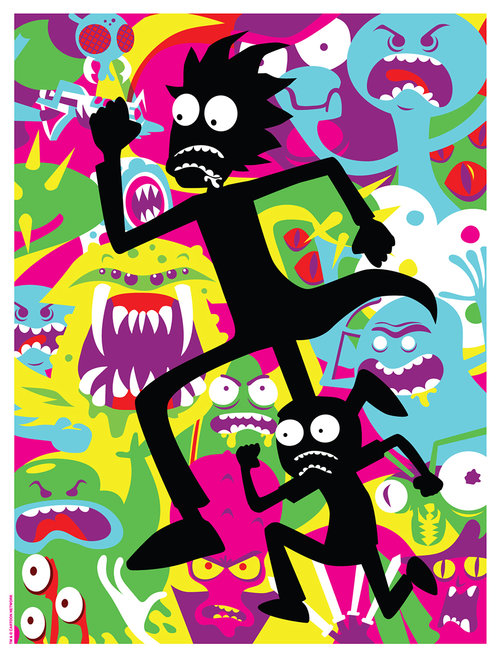
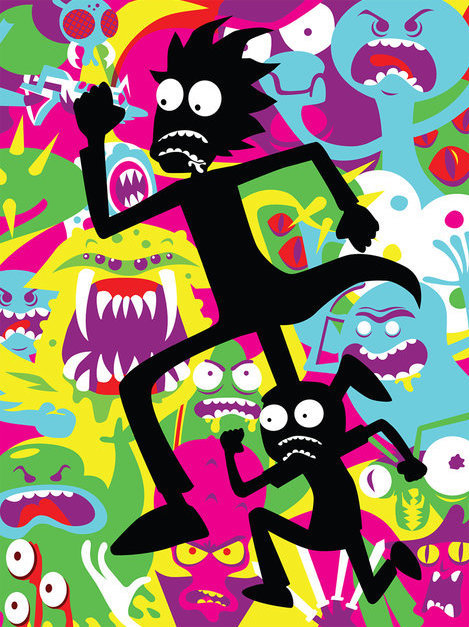
Cards are flipping // resized imgs to fit cards

diff --git a/js/myapp.js b/js/myapp.js
@@ -4,12 +4,14 @@ $(document).ready(function () {
 
 /* Variables  */
 var MemoryGame = {};
-MemoryGame.images = ["pic0.jpg", "pic1.jpg", "pic2.jpg", "pic3.jpg", "pic4.jpg", "pic5.jpg", "pic6.jpg", "pic7.jpg", "pic8.jpg", "pic9.jpg",];    // if you want to add an image, add it here (keep same format, and try to keep ratio as well) 
+MemoryGame.images = ["pic0.jpg", "pic1.jpg", "pic2.jpg", "pic3.jpg", "pic4.jpg", "pic5.jpg", "pic6.jpg", "pic7.jpg", "pic8.jpg", ];    // if you want to add an image, add it here (keep same format, and try to keep ratio as well) 
 MemoryGame.selectedImages = [];
-MemoryGame.backCard = "";
+MemoryGame.selectedFirstCard = -1;
+MemoryGame.selectedSecondCard = -1;
 MemoryGame.maxCards = 6;                                                     // change here for difficulty 
 
 MemoryGame.pickRandomCards = function () {
+
     var arr1 = [];      // arr1 et arr2 are test for random, make sure we get a number only once 
     var arr2 = [];
     while (arr1.length < (MemoryGame.maxCards * 2)) {                        // pick random num and store it twice. 
@@ -30,36 +32,57 @@ MemoryGame.pickRandomCards = function () {
 }
 
 MemoryGame.generateBoard = function () {
+
     var cardsByRow = 4;                 // change here when dealing with difficulty
     var count = 0;                      // give proper id to each generated card
     for (var i = 1; i <= 3; i++) {
-        $("#board").append("<div class='row justify-content-center'>");
+        $(`#board`).append(`<div class='row justify-content-center'>`);
         for (var j = 1; j <= cardsByRow; j++) {
-            $(`.row:nth-child(${i})`).append("<div class='col-xs-5 card'>");
+            $(`.row:nth-child(${i})`).append(`<div class='col-xs-5 card'>`);
             count++;
         }
     }
 }
 
+MemoryGame.flip = function(that, index) {
+
+    that.target.style.backgroundImage = `url('./img/${MemoryGame.selectedImages[index]}')`;
+
+}
+
 MemoryGame.gameplay = function () {
 
-    $(".card").on("click", function () {
-        var index = $(`.card`).index(this);         // get selected card's index (0 -> total cols)
-        $(this).addClass(`selected`);
-        console.log(index);                 // To remove 
-    });
-
-    $(".card").on("mouseover", function () {
+    $(`.card`).on(`mouseover`, function () {
         $(this).addClass(`hovered`);
-        $(".hovered").on("mouseout", function () {
+        $(`.hovered`).on(`mouseout`, function () {
             $(this).removeClass(`hovered`);
         });
+    });
+    $(`.card`).on(`click`, function (e) {
+        var index = $(`.card`).index(this);         // get selected card's index (0 -> total cols)
+        $(this).addClass(`selected`);
+        console.log($('.selected').length);
+        var that = e;
+        MemoryGame.flip(that, index);
+        if ($('.selected').length === 1) {
+            MemoryGame.selectedFirstCard = MemoryGame.selectedImages[index];
+            console.log(MemoryGame.selectedFirstCard);                  //To delete
+        }
+        if ($('.selected').length === 2) {
+            MemoryGame.selectedSecondCard = MemoryGame.selectedImages[index];
+            console.log(MemoryGame.selectedSecondCard);                  //To delete
+
+            $(`.selected`).removeClass(`selected`);     //  mettre dans la derniere fonction
+            // MemoryGame.selectedFirstCard = -1;
+            // MemoryGame.selectedSecondCard = -1;
+        }
     });
 }
 
 
 
 MemoryGame.start = function () {
+
     MemoryGame.generateBoard();
     MemoryGame.pickRandomCards();
     MemoryGame.gameplay();

diff --git a/css/myapp.css b/css/myapp.css
@@ -16,7 +16,9 @@ body {
     height: 164px;
     margin: 0.5vw;
     background-image: url(../img/cardBack.jpg);
-    background-size: contain;
+    background-size: cover;
+    background-repeat: no-repeat;
+    background-position: center;
     border-radius: 15px;
     overflow: hidden;
     border: 2px solid white;
@@ -31,7 +33,7 @@ body {
 .selected {
     border: 3px solid firebrick;
     box-sizing: border-box;
-
+    pointer-events: none;
 }
 
 /* @media (max-width : 200px) {

diff --git a/index.html b/index.html
@@ -13,7 +13,7 @@
 <body>
 
     <div id="board" class="container">
-        
+
     </div>
 
 
